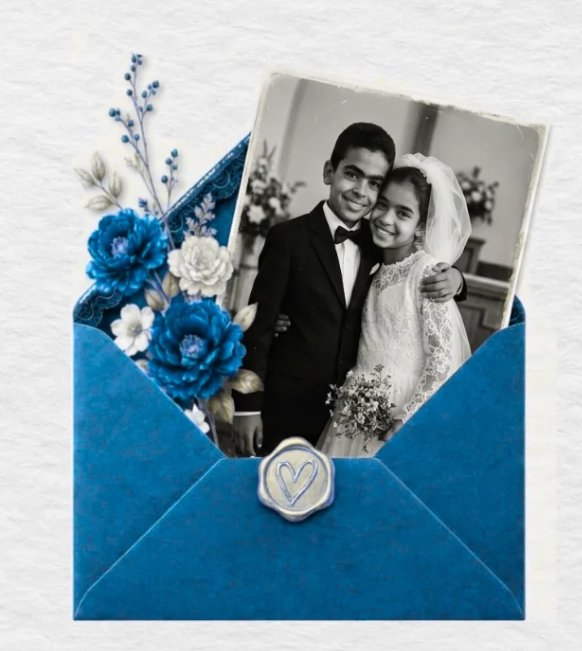
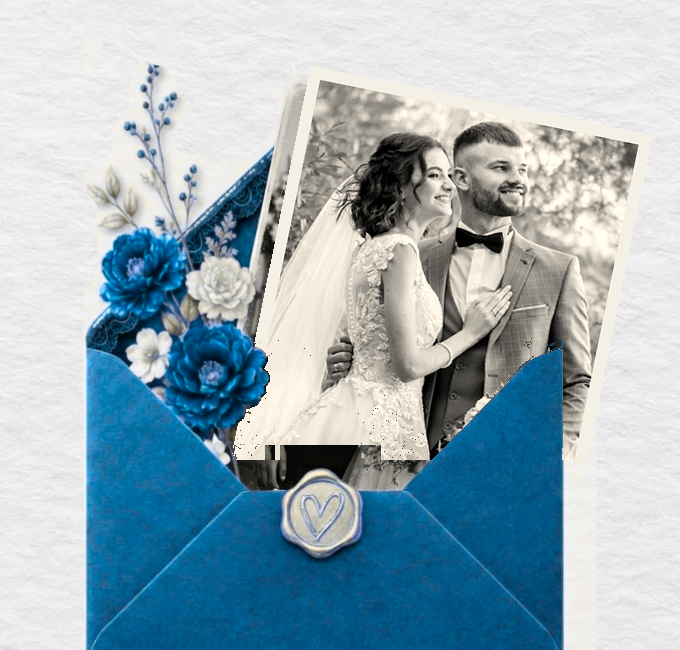
✨ Moving Clouds Palace Animation, Random Demo Stock Couple Envelope (No Private Photos), and Burgundy/Navy Custom Artwork

diff --git a/index.html b/index.html
@@ -52,10 +52,17 @@
         <svg viewBox="0 0 24 24"><path d="M12 2L15.09 8.26L22 9.27L17 14.14L18.18 21.02L12 17.77L5.82 21.02L7 14.14L2 9.27L8.91 8.26L12 2Z"/></svg>
       </div>
 
-      <!-- Featured Grand Palace Venue Artwork -->
+      <!-- Featured Grand Palace Venue Artwork with Moving Clouds -->
       <div class="section-block">
-        <div class="artwork-frame">
-          <img src="assets/palace-venue.jpg" alt="Çırağan Palace Kempinski on the Bosphorus, Istanbul">
+        <div class="palace-scene-card">
+          <div class="palace-scene-sky">
+            <div class="cloud-layer cloud-1"><img src="assets/cloud-1.webp" alt="Drifting Clouds"></div>
+            <div class="cloud-layer cloud-2"><img src="assets/cloud-2.webp" alt="Drifting Clouds"></div>
+            <div class="cloud-layer cloud-3"><img src="assets/cloud-3.webp" alt="Drifting Clouds"></div>
+          </div>
+          <div class="palace-scene-building">
+            <img src="assets/home.webp" alt="The Imperial Bosphorus Estate — Çırağan Palace">
+          </div>
         </div>
         <p class="artwork-caption">
           The Imperial Bosphorus Estate &bull; Çırağan Palace Kempinski, Istanbul
@@ -109,7 +116,7 @@
         <!-- Event 2: Welcome Soirée & Henna Night -->
         <div class="portal-card">
           <div class="portal-thumb">
-            <img src="assets/henna-celebration.jpg" alt="The Traditional Bosphorus Henna Night">
+            <img src="assets/envelope-burgundy.jpg" alt="The Traditional Bosphorus Henna Night Invitation">
           </div>
           <div class="portal-body">
             <div class="portal-tag">Traditional Welcome Celebration</div>
@@ -164,7 +171,7 @@
         <h2 class="section-title">The Couple</h2>
         <p class="section-subtitle">Moments captured along their journey</p>
         <div class="artwork-frame">
-          <img src="assets/couple-portrait.jpg" alt="Alexander &amp; Sophia in Istanbul">
+          <img src="assets/stock_couple_smile.jpg" alt="Alexander &amp; Sophia in Istanbul">
         </div>
       </div>
 

diff --git a/style.css b/style.css
@@ -393,6 +393,97 @@ a {
   display: block;
 }
 
+/* ============================================================
+   ANIMATED PALACE SCENE WITH DRIFTING CLOUDS
+   ============================================================ */
+.palace-scene-card {
+  position: relative;
+  width: 100%;
+  max-width: 520px;
+  height: 330px;
+  margin: 1.75rem auto 1rem;
+  border-radius: 16px;
+  overflow: hidden;
+  box-shadow: 0 16px 45px rgba(0, 0, 0, 0.12);
+  border: 4px solid #ffffff;
+  background: linear-gradient(180deg, #cde5f7 0%, #e8f2fa 45%, #f6f9fc 85%, #fefefe 100%);
+}
+
+.palace-scene-sky {
+  position: absolute;
+  top: 0;
+  left: 0;
+  right: 0;
+  bottom: 0;
+  overflow: hidden;
+  pointer-events: none;
+  z-index: 1;
+}
+
+.cloud-layer {
+  position: absolute;
+  top: 0;
+  will-change: transform;
+  pointer-events: none;
+}
+
+.cloud-1 {
+  width: 380px;
+  top: 15px;
+  left: -150px;
+  opacity: 0.9;
+  animation: driftCloud1 34s linear infinite;
+}
+
+.cloud-2 {
+  width: 480px;
+  top: 40px;
+  left: -250px;
+  opacity: 0.75;
+  animation: driftCloud2 46s linear infinite;
+}
+
+.cloud-3 {
+  width: 320px;
+  top: 8px;
+  left: -80px;
+  opacity: 0.85;
+  animation: driftCloud3 26s linear infinite;
+}
+
+@keyframes driftCloud1 {
+  0% { transform: translateX(-120px); }
+  100% { transform: translateX(620px); }
+}
+
+@keyframes driftCloud2 {
+  0% { transform: translateX(-220px); }
+  100% { transform: translateX(720px); }
+}
+
+@keyframes driftCloud3 {
+  0% { transform: translateX(-80px); }
+  100% { transform: translateX(580px); }
+}
+
+.palace-scene-building {
+  position: absolute;
+  bottom: 0;
+  left: 0;
+  right: 0;
+  z-index: 2;
+  pointer-events: none;
+  display: flex;
+  justify-content: center;
+}
+
+.palace-scene-building img {
+  width: 100%;
+  max-width: 520px;
+  height: auto;
+  display: block;
+}
+
 .artwork-frame {
   border-radius: 14px;
   overflow: hidden;
@@ -403,7 +494,7 @@ a {
 
 .artwork-frame img {
   width: 100%;
-  height: 260px;
+  height: 280px;
   object-fit: cover;
   display: block;
 }

diff --git a/damat.html b/damat.html
@@ -185,13 +185,20 @@
         </div>
       </div>
 
-      <!-- The Grand Palace Venue Artwork Section -->
+      <!-- The Grand Palace Venue Artwork Section with Moving Clouds -->
       <div class="section-block">
         <h2 class="section-title">The Imperial Venue</h2>
         <p class="section-subtitle">Çırağan Palace Kempinski, Istanbul</p>
 
-        <div class="artwork-frame">
-          <img src="assets/palace-venue.jpg" alt="Çırağan Palace Imperial Architecture &amp; Fountain Terrace">
+        <div class="palace-scene-card">
+          <div class="palace-scene-sky">
+            <div class="cloud-layer cloud-1"><img src="assets/cloud-1.webp" alt="Drifting Clouds"></div>
+            <div class="cloud-layer cloud-2"><img src="assets/cloud-2.webp" alt="Drifting Clouds"></div>
+            <div class="cloud-layer cloud-3"><img src="assets/cloud-3.webp" alt="Drifting Clouds"></div>
+          </div>
+          <div class="palace-scene-building">
+            <img src="assets/home.webp" alt="The Imperial Bosphorus Estate — Çırağan Palace">
+          </div>
         </div>
         <p class="artwork-caption">
           Dating back to the 17th century, Çırağan Palace is the sole Ottoman Imperial Palace situated on the European shores of the Bosphorus.

diff --git a/gelin.html b/gelin.html
@@ -30,10 +30,10 @@
         <div class="crest-subtitle">The Welcome Soirée &amp; Traditional Henna Celebration</div>
       </div>
 
-      <!-- Hero Artwork: Traditional Henna Celebration -->
+      <!-- Hero Artwork: Formal Burgundy Envelope with Wax Seal -->
       <div class="envelope-hero">
         <div class="envelope-image-frame" style="border-color: #ffffff;">
-          <img src="assets/henna-celebration.jpg" alt="Traditional Bosphorus Henna Night Celebration">
+          <img src="assets/envelope-burgundy.jpg" alt="Formal Welcome Soirée Invitation Envelope with Wax Seal">
         </div>
       </div>
 
@@ -201,7 +201,7 @@
 
         <div class="gallery-collection">
           <div class="gallery-photo-item span-two">
-            <img src="assets/couple-portrait.jpg" alt="Alexander &amp; Sophia in Istanbul">
+            <img src="assets/stock_couple_smile.jpg" alt="Alexander &amp; Sophia in Istanbul">
           </div>
           <div class="gallery-photo-item">
             <img src="assets/bride-portrait.jpg" alt="Sophia Elena Demir">
